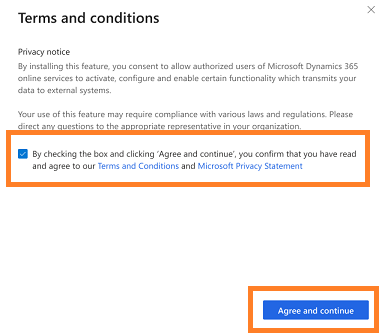
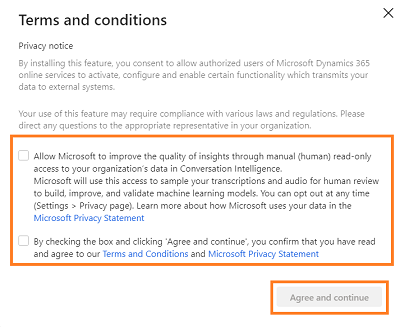
updated

diff --git a/ai-docs/sales/fre-setup-sales-insight-app.md b/ai-docs/sales/fre-setup-sales-insight-app.md
@@ -48,7 +48,7 @@ The following diagram illustrates the process of setting up application as an ad
   
     The application detects your environment.
 
-5.	On the **Terms and conditions** dialog box, accept the terms and conditions and select **Agree and continue**.
+5.	On the **Terms and conditions** dialog box, read and select the [Microsoft privacy statement](https://privacy.microsoft.com/privacystatement) and [terms and conditions](https://www.microsoft.com/licensing/product-licensing/products). Select **Agree and continue**.
 
     > [!div class="mx-imgBorder"]
     > ![Accept terms and conditions](media/si-app-admin-accept-tandc.png "Accept terms and conditions")
